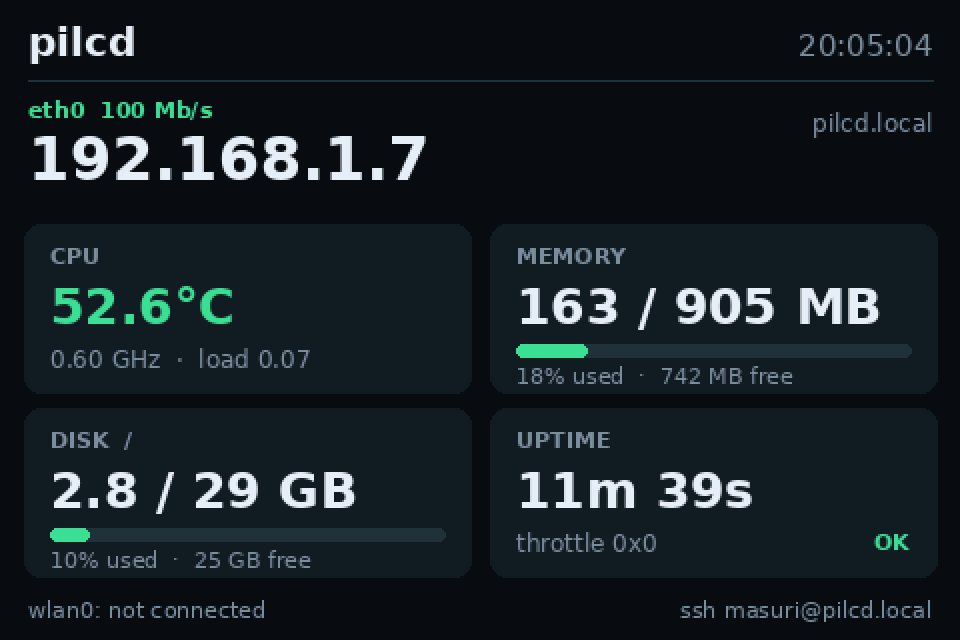
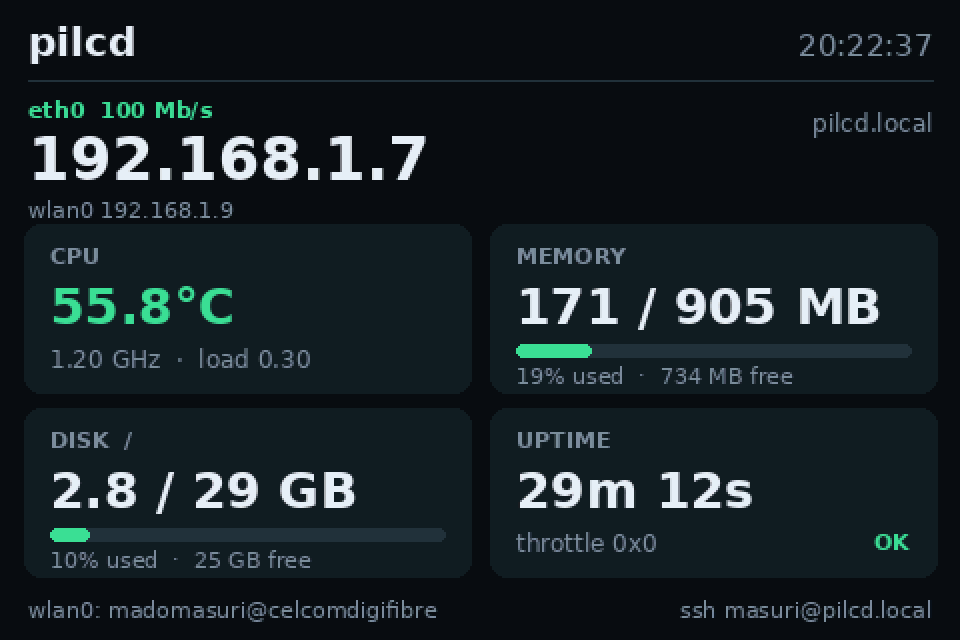
Show the SSID in the footer instead of the NetworkManager profile name
nmcli's connection list does not expose 802-11-wireless.ssid, so resolve the
active profile first and ask that profile for its SSID. Also refresh the
dashboard screenshot.

diff --git a/lcd_status.py b/lcd_status.py
@@ -156,12 +156,22 @@ class Wifi:
         if self._conn is None or time.time() - self._conn_ts > max_age:
             self._conn = ""
             try:
+                # Resolve the active profile name, then ask that profile for its
+                # SSID — the connection list does not expose the wireless field.
                 out = subprocess.run(["nmcli", "-t", "-f", "GENERAL.CONNECTION",
                                       "device", "show", "wlan0"],
                                      capture_output=True, text=True, timeout=5).stdout
+                profile = ""
                 for line in out.splitlines():
                     if line.startswith("GENERAL.CONNECTION:"):
-                        self._conn = line.split(":", 1)[1].strip()
+                        profile = line.split(":", 1)[1].strip()
+                if profile:
+                    out = subprocess.run(["nmcli", "-t", "-f", "802-11-wireless.ssid",
+                                          "connection", "show", profile],
+                                         capture_output=True, text=True, timeout=5).stdout
+                    for line in out.splitlines():
+                        if line.startswith("802-11-wireless.ssid:"):
+                            self._conn = line.split(":", 1)[1].strip()
             except Exception:
                 pass
             self._conn_ts = time.time()
